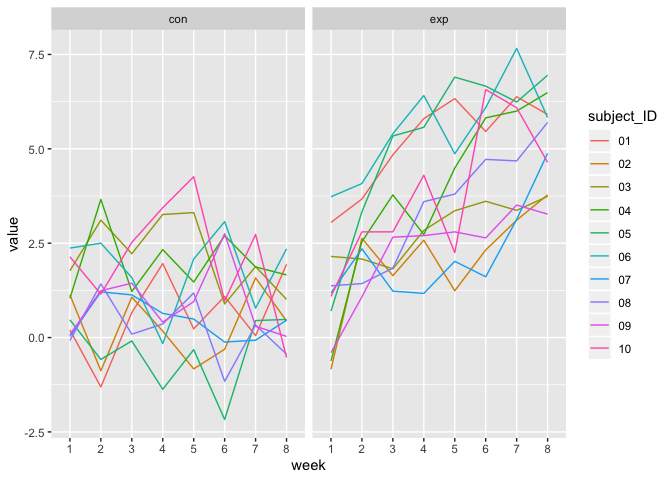
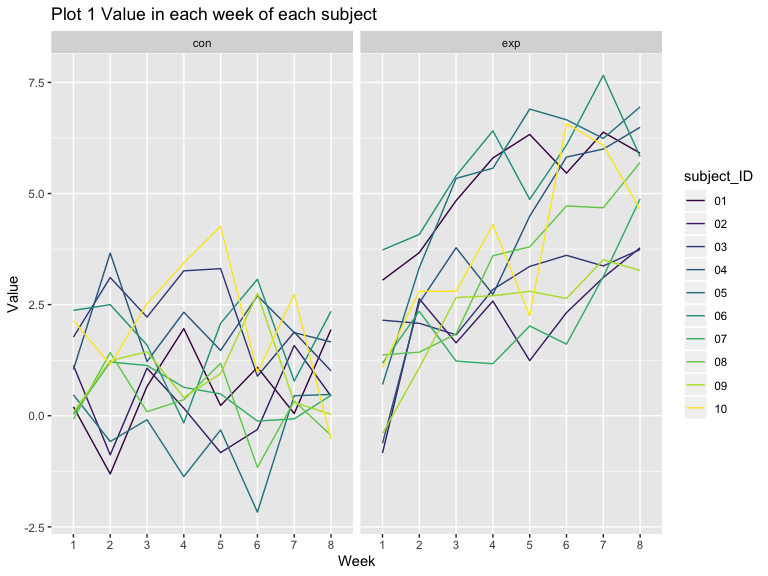
draft done!

Changed region(s): [[0.0, 0.0, 1.0, 1.0], [0.7188, 0.6875, 0.7812, 0.7188]]

diff --git a/hw5_xw2676.md b/hw5_xw2676.md
@@ -58,10 +58,15 @@ arm_df = filename %>%
 
 ggplot(arm_df, aes(x = week, y = value, color = subject_ID, group = subject_ID)) +
   geom_line() +
-  facet_grid(~arm)
+  facet_grid(~arm) +
+  labs(
+    title = "Plot 1 Value in each week of each subject",
+    x = "Week",
+    y = "Value"
+  ) 
 ```
 
-![](hw5_xw2676_files/figure-gfm/unnamed-chunk-2-1.png)<!-- -->
+<img src="hw5_xw2676_files/figure-gfm/unnamed-chunk-2-1.png" width="90%" />
 
 From the plots above, we can see that there is a overall rise of the
 value observed in the experiment group, and there is no trend in control
@@ -101,7 +106,9 @@ sim_results =
     unnest(output) %>% 
   mutate(
     result = ifelse(p.value < 0.05, "reject", "accept")
-  ) %>% 
+  ) 
+
+data_reject = sim_results %>% 
   group_by(beta_1, result) %>% 
   summarise(n = n()) %>% 
   pivot_wider(
@@ -113,8 +120,76 @@ sim_results =
     reject_rate = reject/total
   )
 
-ggplot(sim_results, aes(x = beta_1, y = reject_rate)) +
-  geom_line()
+ggplot(data_reject, aes(x = beta_1, y = reject_rate)) +
+  geom_point() +
+  labs(
+    title = "Plot 2 Rejection proportion",
+    x = "Beta_1",
+    y = "Rejection proportion"
+  ) +
+　geom_text(aes(y = reject_rate + 0.03, label = reject_rate)) +
+  geom_smooth(se = FALSE)
 ```
 
-![](hw5_xw2676_files/figure-gfm/unnamed-chunk-4-1.png)<!-- -->
+    ## `geom_smooth()` using method = 'loess' and formula 'y ~ x'
+
+<img src="hw5_xw2676_files/figure-gfm/unnamed-chunk-4-1.png" width="90%" />
+
+``` r
+average_data = sim_results %>% 
+  group_by(beta_1) %>% 
+  summarise(
+    mean = round(mean(estimate),3)
+  )
+```
+
+We can see from Plot 1 that the proportion of times the null was
+rejected increases with the effect size increases, which means that when
+effect size increases, the power of the test increases.
+
+``` r
+ggplot(average_data, aes(x = beta_1, y = mean)) +
+  geom_point() +
+  labs(
+    title = "Plot 3 Average estimate of each beta_1",
+    x = "Beta_1",
+    y = "Average estimate"
+  ) +
+　geom_text(aes(y = mean + 0.1, label = mean)) +
+  geom_smooth(se = FALSE)
+```
+
+    ## `geom_smooth()` using method = 'loess' and formula 'y ~ x'
+
+<img src="hw5_xw2676_files/figure-gfm/unnamed-chunk-5-1.png" width="90%" />
+
+``` r
+reject_average_data = sim_results %>% 
+  filter(result == "reject") %>% 
+  group_by(beta_1) %>% 
+  summarise(
+    mean = round(mean(estimate),3)
+  )
+
+ggplot(reject_average_data, aes(x = beta_1, y = mean)) +
+  geom_point() +
+  labs(
+    title = "Plot 4 Average estimate that are rejected of each beta_1 ",
+    x = "Beta_1",
+    y = "Average estimate"
+  ) +
+　geom_text(aes(y = mean + 0.1, label = mean)) +
+  geom_smooth(se = FALSE)
+```
+
+    ## `geom_smooth()` using method = 'loess' and formula 'y ~ x'
+
+<img src="hw5_xw2676_files/figure-gfm/unnamed-chunk-5-2.png" width="90%" />
+
+The sample average of \(\hat{\beta}_1\) across tests for which the null
+is rejected is not equal to the true value of \(\hat{\beta}_1\). Because
+only when its value is far away from the true value, then it can be
+rejected. So when the effect size is small, the proportion of rejection
+is small, so the average will be a little larger than the true value.
+When the effect size is large, then the proportion of rejection is
+large, so the average will be approximately equal to the true value.
